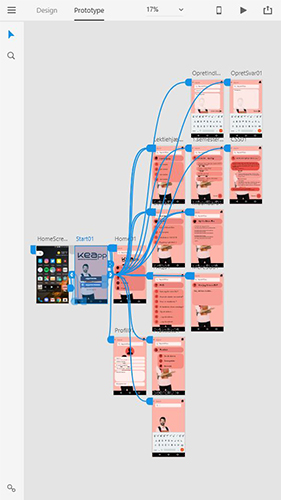
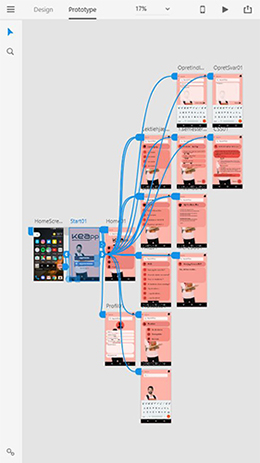
ny

diff --git a/tema4.html b/tema4.html
@@ -49,7 +49,7 @@
             <h3>KEA-App</h3>
             <p>Vi blev stillet til opgave at skulle udarbejde en prototype til en app ud fra følgende problemformulering:</p>
             <ul>
-                <li>"Multimediedesignstuderende på den danske og den internationale linje har ikke meget med hinanden at gøre, det vil KEA gerne gøre noget ved. Men hvordan kan en KEA app understøtte dette? KEA app’en må også gerne forbedre de studerendes muligheder for at få et arbejde efter endt uddannelse."</li>
+                <li style="list-style-type:none">"Multimediedesignstuderende på den danske og den internationale linje har ikke meget med hinanden at gøre, det vil KEA gerne gøre noget ved. Men hvordan kan en KEA app understøtte dette? KEA app’en må også gerne forbedre de studerendes muligheder for at få et arbejde efter endt uddannelse."</li>
             </ul>
 
             <p>Undervejs i processen skulle der føres "fuld design thinking proces". Herunder skulle der laves brugerundersøgelser, udføres tests, laves papir-prototyper m.m.</p>
@@ -81,13 +81,13 @@
             <p>To prototyper blev udarbejdet i Adobe XD</p>
             <p>Til højre ses Adobe XD prototype flowchart, samt to versioner af app'en. Underneden ses et skærmbillede af App-præsentationen, samt et link til denne på Google Docs.</p>
             <a href="https://docs.google.com/presentation/d/1Nkpjy-K3kb_Sj9A5exfqa2JI0e80NZnaG2gnJTdc3tY/edit#slide=id.p1" target="_blank">
-                <h3>Link til den fulde pitch.</h3>
+                <h3>Link til den fulde præsentation.</h3>
             </a>
 
-            <image>
-                <a href="https://docs.google.com/presentation/d/1Nkpjy-K3kb_Sj9A5exfqa2JI0e80NZnaG2gnJTdc3tY/edit?usp=sharing" target="_blank"><img src="pics/keapp_pitch.jpg" alt="KEApp pitch"></a>
-                <figcaption>Skærmbillede af den endelige KEApp-pitch</figcaption>
-            </image>
+
+            <a href="https://docs.google.com/presentation/d/1Nkpjy-K3kb_Sj9A5exfqa2JI0e80NZnaG2gnJTdc3tY/edit?usp=sharing" target="_blank"><img src="pics/keapp_pitch.jpg" alt="KEApp pitch"></a>
+
+
         </div>
 
         <div class="kea_app_billede">
@@ -100,14 +100,14 @@
         <div class="kea_app_billede">
             <figure>
                 <figcaption>Prototype - v1 (klik på KEApp-ikonet)</figcaption>
-                <iframe width="281" height="500" src="https://xd.adobe.com/embed/7a72911e-9fc9-4010-74db-0eb35a1cbb11-0c43/"></iframe>
+                <iframe width="260" height="463" src="https://xd.adobe.com/embed/7a72911e-9fc9-4010-74db-0eb35a1cbb11-0c43/"></iframe>
             </figure>
         </div>
 
         <div class="kea_app_billede">
             <figure>
                 <figcaption>Prototype - v2 (klik på KEApp-ikonet)</figcaption>
-                <iframe width="281" height="500" src="https://xd.adobe.com/embed/8ba95144-791a-48a7-4285-64aa404f1166-fd98/"></iframe>
+                <iframe width="260" height="463" src="https://xd.adobe.com/embed/8ba95144-791a-48a7-4285-64aa404f1166-fd98/"></iframe>
             </figure>
         </div>
     </div>
@@ -125,8 +125,8 @@
             <h2>Joe &amp; the Juice</h2>
             <h3><u>Virksomhedscase</u></h3>
             <p>Over en periode på to uger skulle vi (gruppevis) analysere og forbedre Joe &amp; the Juices "Loyaly App" ud fra nedestående overordnede problemstilling:</p>
-            <ul>
-                <li>Hvordan kan Joe &amp; The Juice styrke Joe Loyalty-appen?</li>
+            <ul style="list-style-type:none">
+                <li>"Hvordan kan Joe &amp; The Juice styrke Joe Loyalty-appen?"</li>
             </ul>
             <p>Undervejs i forløbet blev løst en række del-opgaver med henblik på at optimere brugeroplevelsen af Joe &amp; the Juice Loyalty App, herunder:</p>
             <ul>
@@ -157,7 +157,7 @@
             <p>Desuden blev en pitch holdt med henblik på at "sælge" app'en til repræsentanter fra Joe &amp; the Juice.</p>
 
             <a href="https://docs.google.com/presentation/d/1k0DyImYpdFEzbI2yvcfsyGQIc372ViE74_we_NN5hyU/edit#slide=id.p" target="_blank">
-                <h3>Link til den fulde pitch.</h3>
+                <h3>Link til den fulde præsentation.</h3>
             </a>
 
             <a href="http://www.multimediamads.com/kea/04-ux/joejuice_dokumentationssite/" target="_blank">

diff --git a/style.css b/style.css
@@ -92,9 +92,7 @@ hr {
     background-color: #333;
 }
 
-figcaption {
-    font-size:
-}
+
 
 /* --------------------- TOP-BAR ------------------*/
 
@@ -427,7 +425,7 @@ a:visited {
 .kea_app_top {
     display: flex;
     flex-wrap: wrap;
-    justify-content: space-evenly;
+    justify-content: space-between;
     margin-top: 50px;
 
 }
@@ -435,8 +433,12 @@ a:visited {
 .kea_app_middle {
     display: flex;
     flex-wrap: wrap;
-    justify-content: space-evenly;
+    justify-content: space-between;
     max-width: 100%;
+}
+
+.kea_app_billede {
+    text-align: center;
 }
 
 /*.kea_app_billede,
@@ -489,7 +491,7 @@ a:visited {
 .joe_top_text_right {
     flex-grow: 1;
     width: 20vw;
-    padding: 50px 30px;
+    padding: 90px 30px;
     flex-basis: 350px;
 
 }
@@ -608,5 +610,17 @@ a:visited {
 @media screen and (max-width: 720px) {
     .kea_app_text {
         width: 70vw;
+    }
+}
+
+@media screen and (max-width: 840px) {
+    .joe_top_text_right,
+    .joe_top_text_right li,
+    .joe_top_text_right ul,
+    .joe_top_text_left,
+    .joe_top_text_left li,
+    .joe_top_text_left ul {
+        padding: 0px 30px;
+        margin: 0px 30px;
     }
 }
